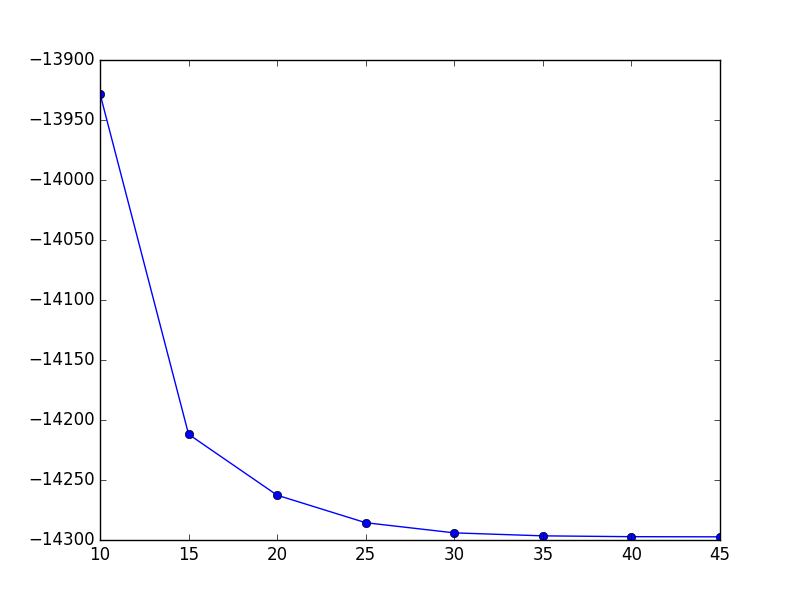
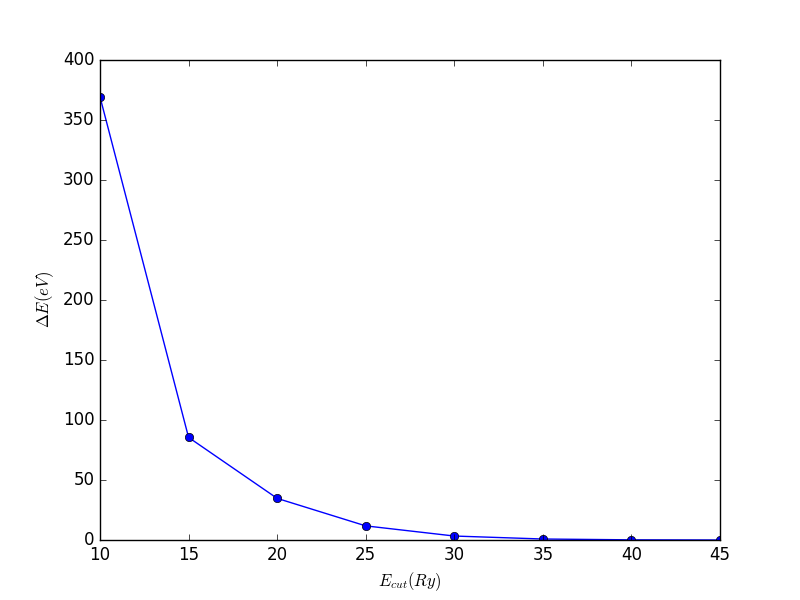
Updated with JSON input, x- and y- labels for plots, and etc.

diff --git a/ecut/test_ecut_sno2.py b/ecut/test_ecut_sno2.py
@@ -2,6 +2,8 @@
 
 from __future__ import print_function
 
+import os, sys, json
+
 import numpy as np
 
 from ase.build import bulk, surface
@@ -11,10 +13,18 @@ from ase.visualize import view
 from ase.spacegroup import crystal 
 from espresso import Espresso
 
-minecut = 10
-maxecut = 45
-intecut = 5
-kpts = [2,2,2]
+infile = sys.argv[1]
+print(infile)
+with open(infile) as handle:
+    system = json.loads(handle.read())
+
+minecut = system['min_ecut']
+maxecut = system['max_ecut']
+intecut = system['interval']
+kpts = system['kpts']
+mode = system['mode']
+
+cwd = os.getcwd()
 
 def cassiterite(show=False):
     a = 4.7382
@@ -25,29 +35,35 @@ def cassiterite(show=False):
     return sno2
 
 
-ecut_dict = dict()
-for ecut in range(minecut,maxecut+intecut,intecut):
-    print('Working on...',ecut,' -> ', end=' ')
+if mode == "view":
     sno2 = cassiterite()
-    calc = Espresso(pw=ecut * Rydberg, calculation='scf', kpts=kpts,
-                    psppath="/home/ntm/projects/josh_kim/sno2/pseudo",
-                    convergence={'energy': 1e-6,
-                                 'maxsteps': 100, 'diag': 'cg'},
-                    outdir='sno2_test'
-                    )
-    sno2.set_calculator(calc)
-    calc.calculate(sno2)
-    ecut_dict[ecut] = sno2.get_potential_energy()
-    print('ECUT:', ecut, 'SnO2 PE:', sno2.get_potential_energy())
-    
+    view(sno2)
 
-for i, ecut  in enumerate(sorted(ecut_dict.keys())[1:]):
-    print( (ecut_dict[ecut] - ecut_dict[ecut-intecut]) / ecut_dict[ecut] )
-    
+elif mode == "calc":
+    ecut_dict = dict()
+    for ecut in range(minecut,maxecut+intecut,intecut):
+        print('Working on...',ecut,' -> ', end=' ')
+        sno2 = cassiterite()
+        calc = Espresso(pw=ecut * Rydberg, calculation='scf', kpts=kpts,
+                        psppath=cwd+"/../pseudo",
+                        convergence={'energy': 1e-6,
+                                     'maxsteps': 100, 'diag': 'cg'},
+                        outdir='sno2_test'
+                        )
+        sno2.set_calculator(calc)
+        calc.calculate(sno2)
+        ecut_dict[ecut] = sno2.get_potential_energy()
+        print('ECUT:', ecut, 'SnO2 PE:', sno2.get_potential_energy())
+        
+    emin = min(ecut_dict.itervalues())
+    for key in ecut_dict:
+        ecut_dict[key] -= emin
 
-import matplotlib.pyplot as plt
-x, y = zip( *sorted(ecut_dict.items()) )
-plt.plot(x,y,'-o')
-plt.show()
+    import matplotlib.pyplot as plt
+    x, y = zip( *sorted(ecut_dict.items()) )
+    plt.plot(x,y,'-o')
+    plt.xlabel(r'$E_{cut} (Ry) $')
+    plt.ylabel(r'$\Delta E (eV) $')
+    plt.show()
 
 

diff --git a/kpts/test_kpts_sno2.py b/kpts/test_kpts_sno2.py
@@ -2,6 +2,8 @@
 
 from __future__ import print_function
 
+import os, sys,json
+
 import numpy as np
 
 from ase.build import bulk, surface
@@ -11,6 +13,20 @@ from ase.visualize import view
 from ase.spacegroup import crystal 
 from espresso import Espresso
 
+infile = sys.argv[1]
+print(infile)
+with open(infile) as handle:
+    system = json.loads(handle.read())
+
+min_kpts = system['min_kpts']
+max_kpts = system['max_kpts']
+interval = system['interval']
+ecut = system['ecut']
+mode = system['mode']
+
+cwd = os.getcwd()
+
+kpts_dict = dict()
 def cassiterite(show=False):
     a = 4.7382
     c = 3.1871
@@ -19,28 +35,39 @@ def cassiterite(show=False):
                    pbc=True)
     return sno2
 
-
-ecut=35.0
-kpts_dict = dict()
-for k in range(1,7):
-    print('Working on...',k,' -> ', end=' ')
-    kpts = (k,k,k)
+if mode == 'view':
     sno2 = cassiterite()
-    calc = Espresso(pw=ecut * Rydberg, calculation='scf', kpts=kpts,
-                    psppath="/home/ntm/projects/josh_kim/sno2/pseudo",
-                    convergence={'energy': 1e-6,
-                                 'maxsteps': 100, 'diag': 'cg'},
-                    outdir='sno2_test'
-                    )
-    sno2.set_calculator(calc)
-    calc.calculate(sno2)
-    kpts_dict[k] = sno2.get_potential_energy()
-    print('K_POINTS:', k, 'SnO2 PE:', sno2.get_potential_energy())
-    
+    view(sno2)
 
-import matplotlib.pyplot as plt
-x, y = zip( *sorted(kpts_dict.items()) )
-plt.plot(x,y,'-o')
-plt.show()
+if mode == 'calc':
+    for k in range(min_kpts,max_kpts+interval,interval):
+        print('Working on...',k,' -> ', end=' ')
+        kpts = (k,k,k)
+        sno2 = cassiterite()
+        calc = Espresso(pw=ecut * Rydberg, calculation='scf', kpts=kpts,
+                        psppath=cwd+"/../pseudo",
+                        convergence={'energy': 1e-6,
+                                     'maxsteps': 100, 'diag': 'cg'},
+                        outdir='sno2_test'
+                        )
+        sno2.set_calculator(calc)
+        calc.calculate(sno2)
+        kpts_dict[k] = sno2.get_potential_energy()
+        print('K_POINTS:', k, 'SnO2 PE:', sno2.get_potential_energy())
+
+    emin = min(kpts_dict.itervalues())
+    for key in kpts_dict:
+        kpts_dict[key] -= emin
+
+        
+
+    import matplotlib.pyplot as plt
+    x, y = zip( *sorted(kpts_dict.items()) )
+    plt.plot(x,y,'-o')
+    plt.xlabel(r'K-point mesh dimensions (cubic)')
+    plt.ylabel(r'$\Delta E (eV) $')
+    plt.show()
+
+    plt.show()
 
 

diff --git a/surfaces/surfaces_sno2.py b/surfaces/surfaces_sno2.py
@@ -2,7 +2,7 @@
 
 from __future__ import print_function
 
-import sys, json
+import os, sys, json
 
 import numpy as np
 
@@ -23,7 +23,9 @@ layers = system['layers']
 vacuum = system['vacuum']
 kpts = system['kpts']
 ecut = system['ecut']
+mode = system['mode']
 
+cwd = os.getcwd()
 
 def cassiterite(show=False):
     a = 4.7382
@@ -34,11 +36,11 @@ def cassiterite(show=False):
     return sno2
 
 
-def create_surface(sno2,face=(1,1,0),layers=3,vacuum=10.813,kpts=([6,3,1])):
-    sno2_surface = surface( sno2, face, layers)
-    sno2_surface.center(vacuum=vacuum, axis=2)
+def create_surface(atoms,face=(1,1,0),layers=3,vacuum=10.813,kpts=([6,3,1])):
+    mySurface = surface( atoms, face, layers)
+    mySurface.center(vacuum=vacuum, axis=2)
     kpts = np.asarray(kpts)
-    return sno2_surface
+    return mySurface
 
 
 sno2         = cassiterite()
@@ -51,13 +53,15 @@ sno2_surface = create_surface(sno2,
 calc = Espresso(pw=ecut * Rydberg, calculation='scf', kpts=kpts,
                 convergence={'energy': 1e-6,
                              'maxsteps': 100, 'diag': 'cg'},
-                psppath="/home/ntm/projects/josh_kim/sno2/pseudo",
+                psppath=cwd+"/../pseudo",
                 outdir='sno2_test'
                 )
 
-#view(sno2_surface)
 sno2_surface.set_calculator(calc)
 
-calc.calculate(sno2_surface)
-print('SnO2 PE:', sno2_surface.get_potential_energy())
+if mode == 'view':
+    view(sno2_surface)
+elif mode == 'calc':
+    calc.calculate(sno2_surface)
+    print('SnO2 PE:', sno2_surface.get_potential_energy())
 
